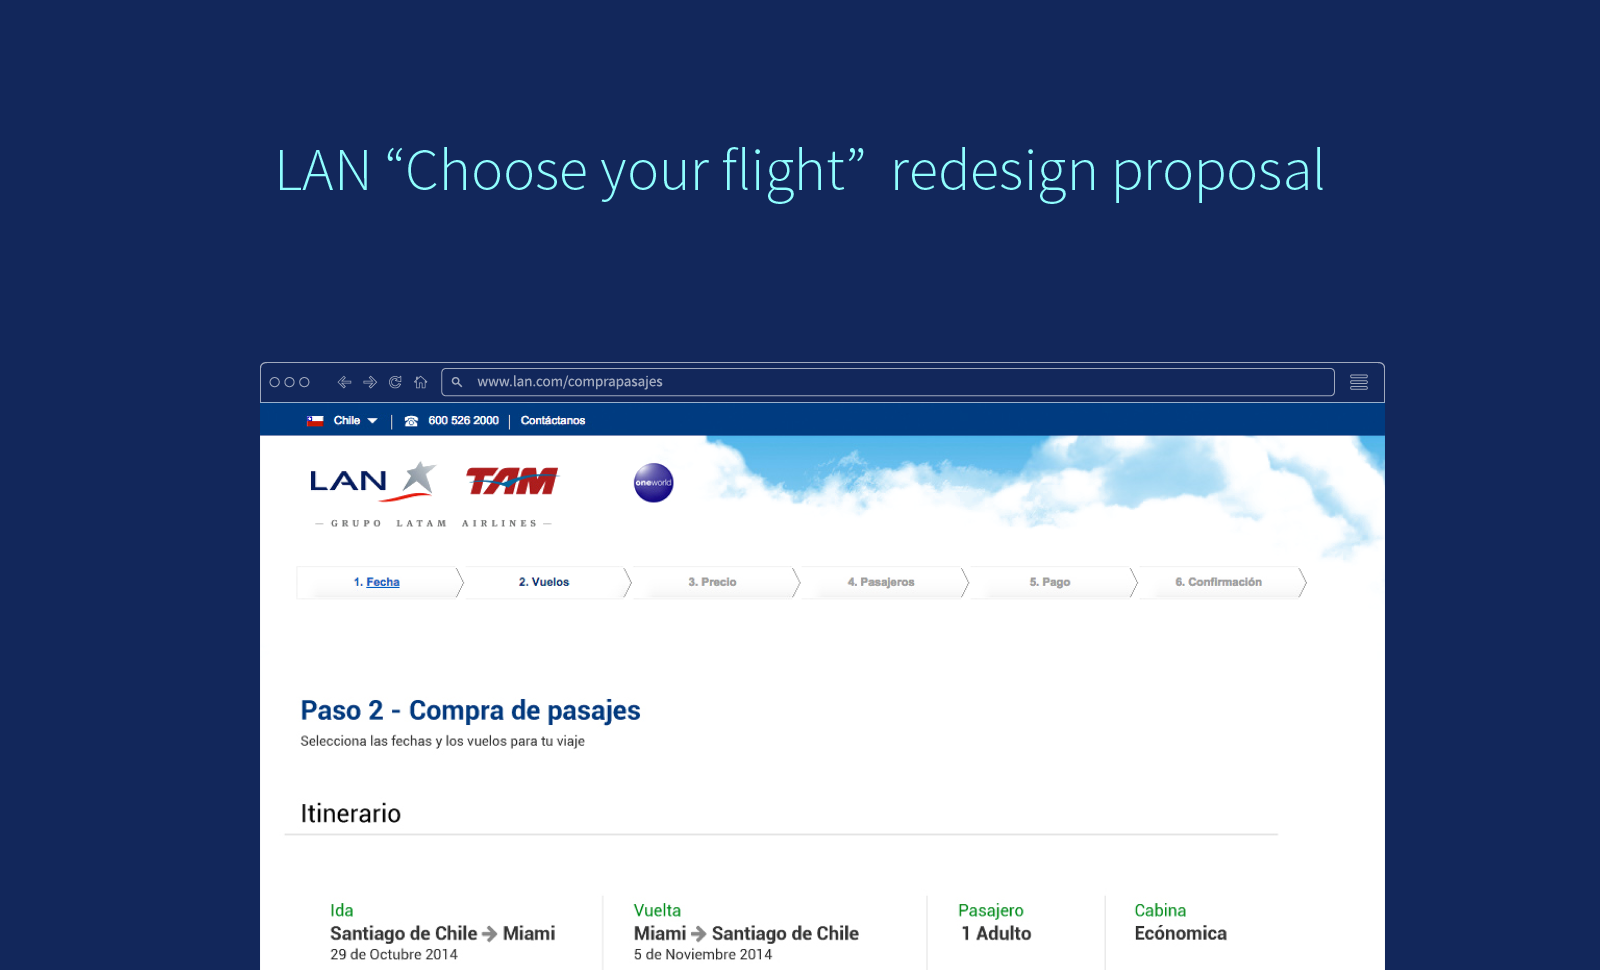
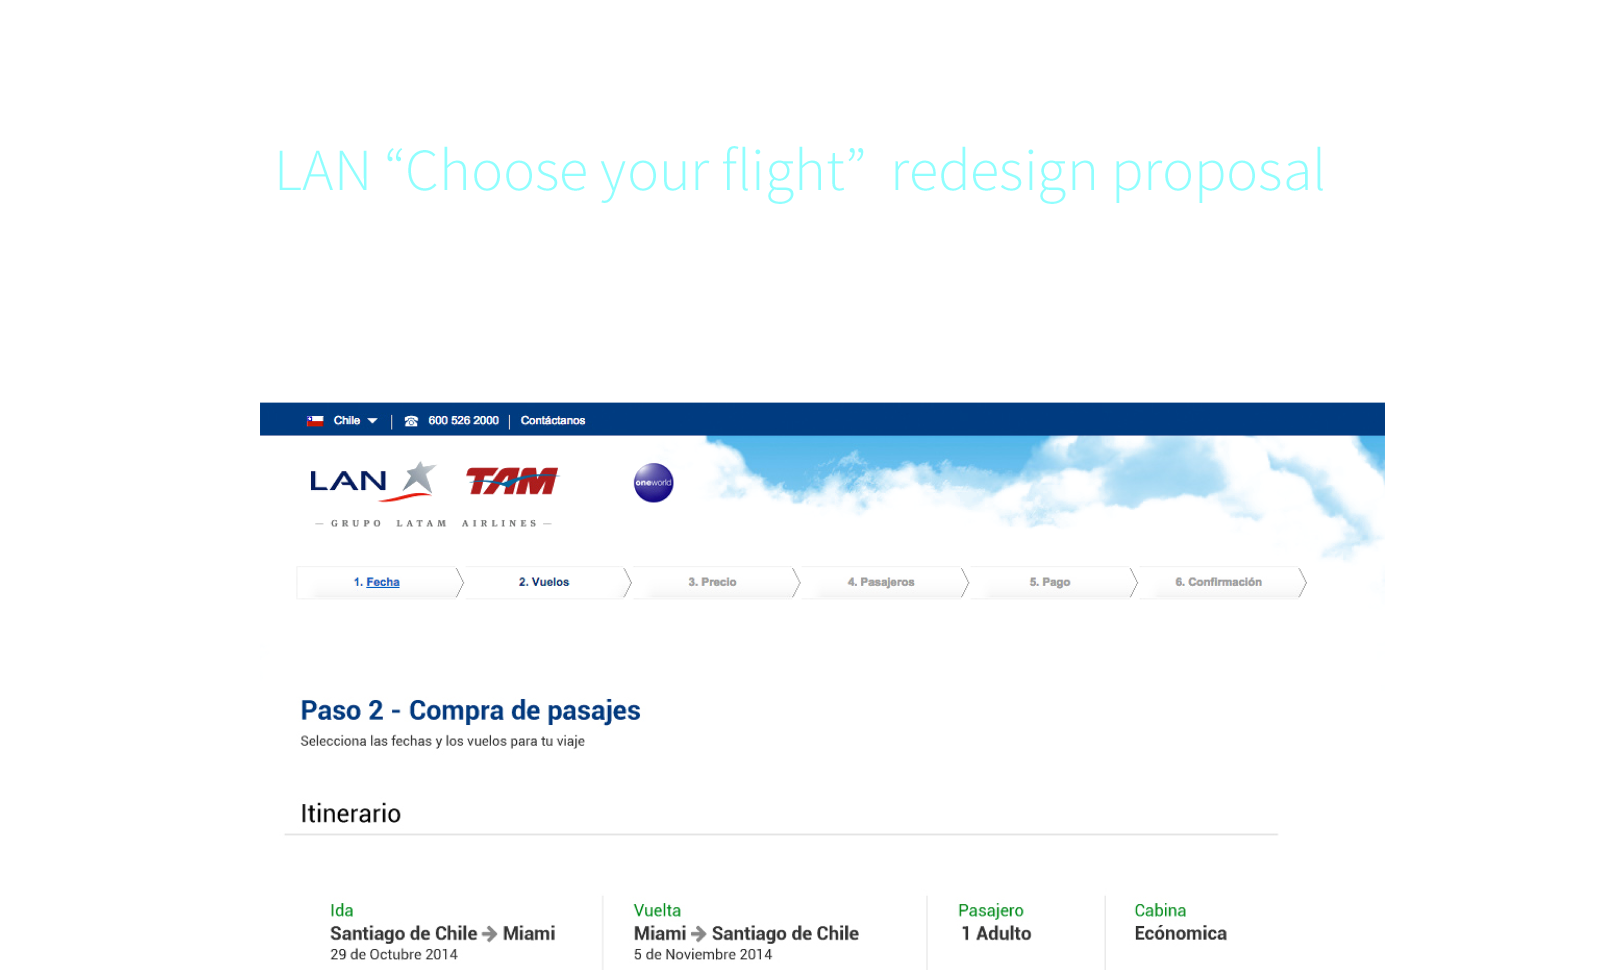
LAN v2, pretty pretty

diff --git a/css/style.css b/css/style.css
@@ -2051,7 +2051,7 @@ background:white;
 
 body.bg-dark {
     background: #fafafa;
-    padding-bottom: 7em;
+    padding-bottom: 0px;
     text-align: center;
 }
 
@@ -2066,9 +2066,10 @@ body.bg-dark.lan {
 	display: inline-block;
 	border: 1px solid #dcdcdc;
 	margin: 0 auto;
-	border-radius: 0 0 5px 5px;
+	border-radius: 0px;
 	overflow-y: auto;
 }
+
 
 .lan .container-shadow{
 	box-shadow: none;
@@ -2077,12 +2078,29 @@ body.bg-dark.lan {
 	border: none;
 	margin: 0 auto;
 	width: 100%;
+	background: #12275b;
 }
 
-.container-shadow.darker {
+
+.lan .container-shadow.darker {
     width: 100%;
-    background: #0d1f50;
+    background: #091b46;
+    margin: -1% 0%;
 }
+
+.lan .container-shadow.lighter {
+    background: #dee8f7;
+}
+
+.lan nav#site-navigation {
+    background: rgba(9, 27, 70, 0.18);
+}
+
+.lan nav#site-navigation h1, 
+.lan nav#site-navigation h1, b {
+color:white
+}
+
 
 .thanks_container{
 	margin-top: 20em;
@@ -2092,4 +2110,16 @@ body.bg-dark.lan {
 .thanks_container img{
 	max-width: 30%;
 	opacity: .9;
+}
+
+.skew{
+	clip-path: polygon(0 2%, 100% 0%, 100% 98%, 0% 100%);
+	margin: -6% 0!important;
+	padding: 6% 0;
+}
+
+.skew-up{
+	clip-path: polygon(0 2%, 100% 0%, 100% 100%, 0% 100%);
+	margin: -6% 0!important;
+	padding: 6% 0;
 }

diff --git a/teamtask_v2.html b/teamtask_v2.html
@@ -12,7 +12,7 @@
 	<link rel="stylesheet" href="css/style.css">
   <link href="https://fonts.googleapis.com/css?family=Droid+Serif|Source+Sans+Pro:400,600,700" rel="stylesheet">
 	<link rel="stylesheet" href="css/slick.css"></head>
-<body class="bg-dark">
+<body class="bg-dark" style="">
 	<nav id="site-navigation" class="main-navigation" role="navigation">
 		<div class="container nav-bar">
 			<div class="row">

diff --git a/educabilia_v2.html b/educabilia_v2.html
@@ -4,7 +4,7 @@
 <meta name="viewport" content="width=device-width, initial-scale=1">
 	<meta charset="utf-8">
 	<meta http-equiv="x-ua-compatible" content="ie=edge">
-	<title>TeamTask</title>
+	<title>Educabilia</title>
 	<meta name="description" content="">
 	<meta name="viewport" content="width=device-width, initial-scale=1">
 	<link rel="stylesheet"  href="css/bootstrap-min.css" type="text/css" media="all">
